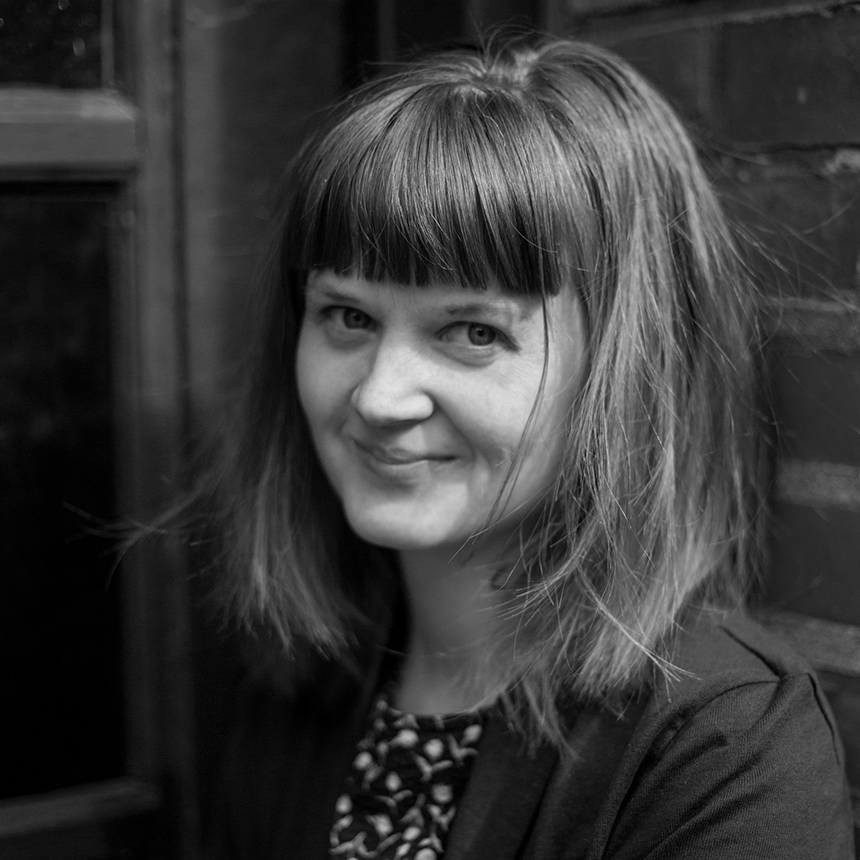
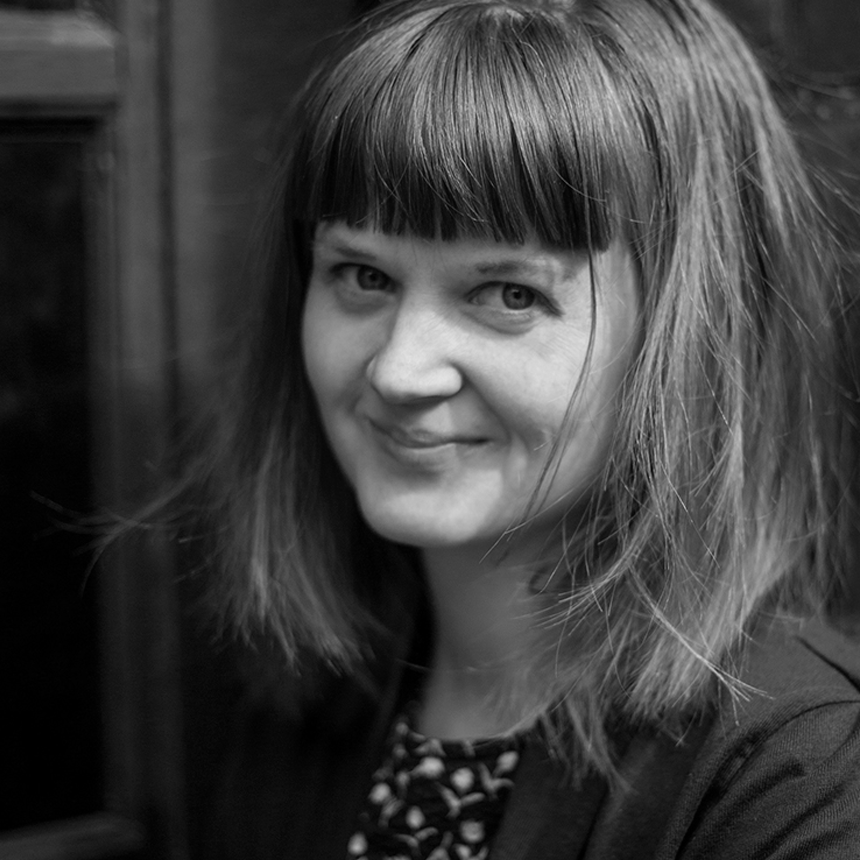
Fixing aspect Ratio of Images (to be continued)

diff --git a/src/components/CurrentProjects.vue b/src/components/CurrentProjects.vue
@@ -101,7 +101,7 @@
                             <p class="title">.</p>
                             <!-- TEAM MEMBER 5 -->
                             <div class="pic-filler5" v-bind:style="bgImg5">
-                              <div class="color-filter"></div>
+                              <div class="color-filter col-filter2"></div>
                             </div>
                           </article>
                         </div>
@@ -151,7 +151,7 @@
                   <p class="title">.</p>
                     <!-- TEAM MEMBER 6 -->
                     <div class="pic-filler6" v-bind:style="bgImg6">
-                      <div class="color-filter"></div>
+                      <div class="color-filter col-filter1"></div>
                     </div>
                 </article>
               </div>
@@ -205,7 +205,7 @@ export default {
   },
   methods: {
     chosenProject: function() {
-      this.currentProj = this.data.projects[1];
+      this.currentProj = this.data.projects[2];
     },
     setupProject: function() {
       let selectedProj = this.currentProj;

diff --git a/src/assets/scss/main-components/current-projects.scss b/src/assets/scss/main-components/current-projects.scss
@@ -121,7 +121,7 @@
 .illustrative-filler2 {
   @extend .pic-filler-item;
   // background-color: $pink;
-  background-image: url(../../assets/images/illustrations/9.jpg);
+  background-image: url(../../assets/images/illustrations/7.jpg);
   background-position: 0% 30%;
   // background-size: 200%;
 }
@@ -152,8 +152,8 @@
 .pic-filler4 {
   @extend .pic-filler-item;
   background-color: $purple_dark;
-  background-position: 50% 20%;
-  background-size: 140%;
+  background-position: 50% 30%;
+  background-size: 100%;
 }
 
 .pic-filler5 {
@@ -214,7 +214,7 @@
     background-size: 630%;
   }
   .pic-filler4 {
-    background-size: 220%;
+    background-size: 200%;
   }
 
   .pic-filler5 {
